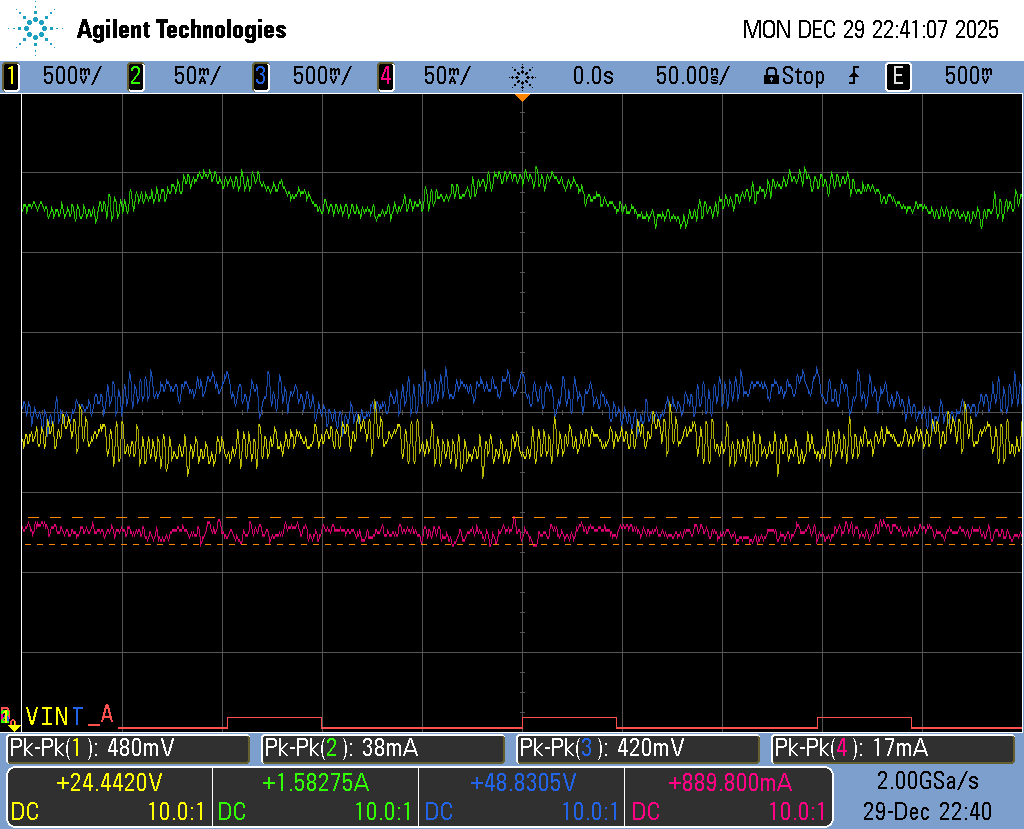
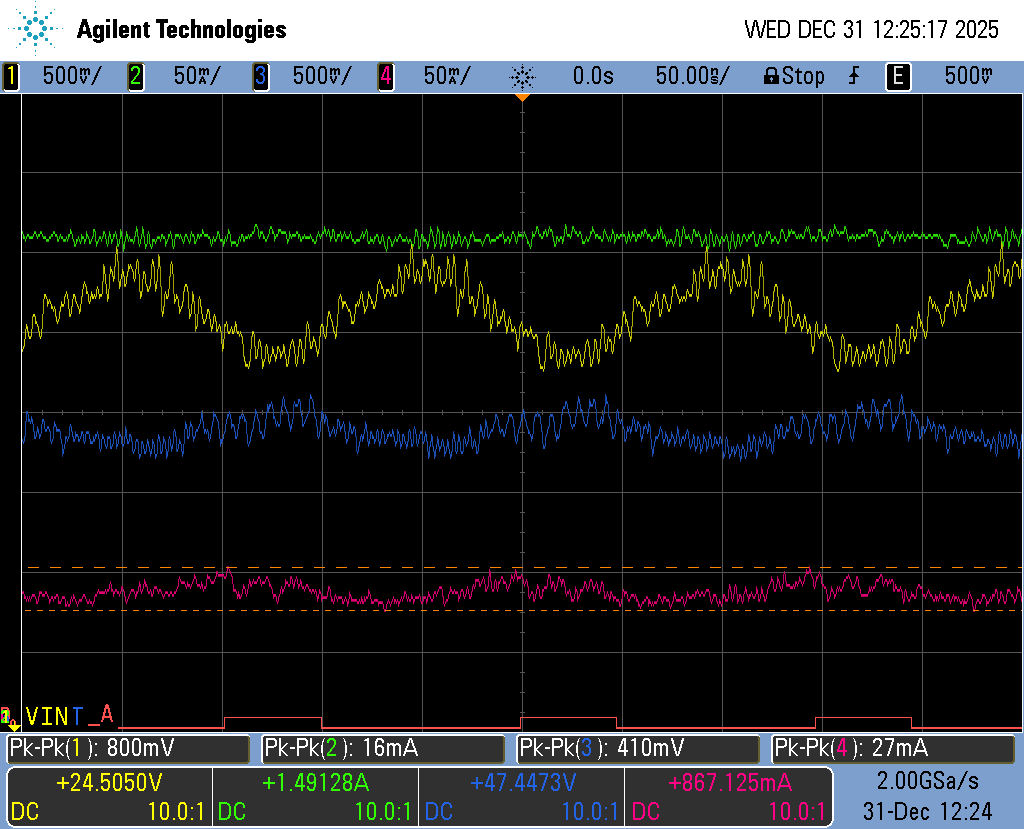
Updates from Overleaf

diff --git a/Final-Project-main.tex b/Final-Project-main.tex
@@ -480,8 +480,8 @@ An efficiency of 91.2\% is achieved at the nominal operating point.
     \hfill
     \begin{subfigure}[t]{0.32\textwidth}
         \centering
-        \includegraphics[width=\linewidth]{plottings/Ro/74.5R_MSO7034B.png}
-        \caption{$R_o = 74.5 \Omega$}
+        \includegraphics[width=\linewidth]{plottings/Ro/75.0R_MSO7034B.png}
+        \caption{$R_o = 75 \Omega$}
     \end{subfigure}
     
     \caption{Measured drain--source voltages and gate-drive voltages of the GaN FETs at different load resistances.}
